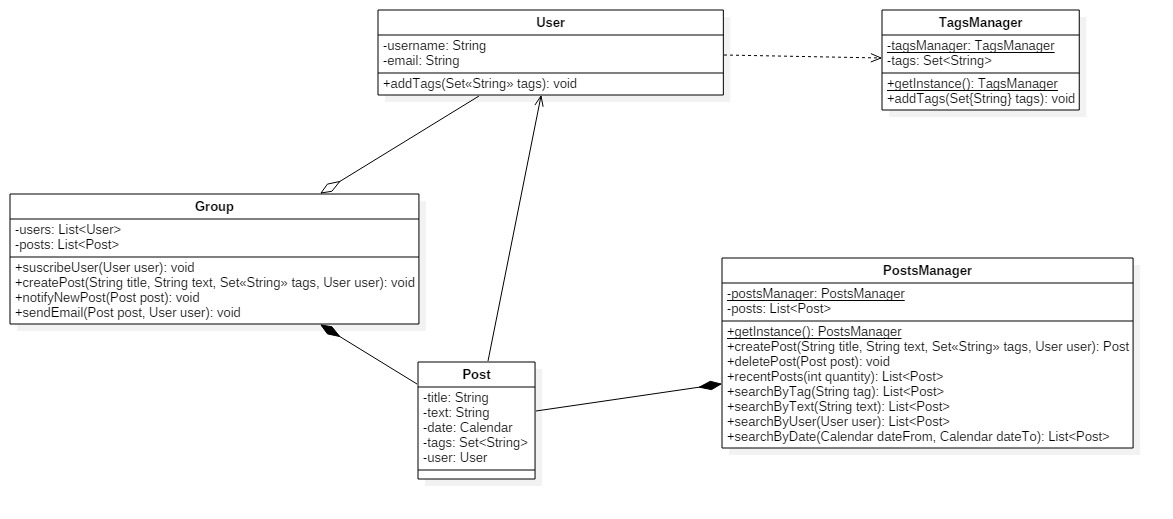
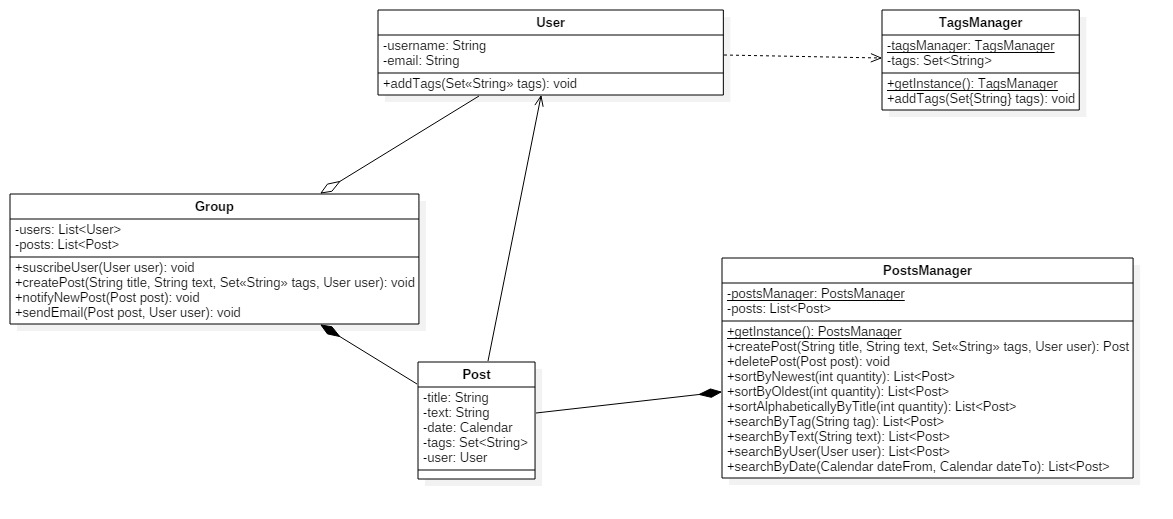
Add sort functionalities

Changed region(s): [[0.6138, 0.7091, 0.9821, 0.9249], [0.4604, 0.7399, 0.6138, 0.8015]]

diff --git a/Day 3/blog-app/src/main/java/com/bootcamp/app/PostsManager.java b/Day 3/blog-app/src/main/java/com/bootcamp/app/PostsManager.java
@@ -2,6 +2,7 @@ package com.bootcamp.app;
 
 import java.util.ArrayList;
 import java.util.Calendar;
+import java.util.Comparator;
 import java.util.List;
 import java.util.Set;
 import java.util.stream.Collectors;
@@ -21,7 +22,7 @@ public class PostsManager {
 	
 	public Post createPost(String title, String text, Set<String> tags, User user) {
 		Post post = new Post(title, text, tags, user);
-		posts.add(0, post);	
+		posts.add(post);	
 		return post;
 	}
 	
@@ -29,8 +30,43 @@ public class PostsManager {
 		posts.remove(post);
 	}
 	
-	public List<Post> recentPosts(int quantity) {
+	public List<Post> sortByNewest(int quantity) {
+		// quantity == 0 return all posts
+		posts.sort(new Comparator<Post>() {
+
+			@Override
+			public int compare(Post post1, Post post2) {
+				if (post1.getDate().before(post2.getDate())) {
+					return 1;
+				} else if (post1.getDate().after(post2.getDate())) {
+					return -1;
+				} else {
+					return 0;
+				}
+			}
+		});	
+		if (quantity == 0) {
+			return posts;
+		}
 		return posts.subList(0, quantity);
+	}
+	
+	public List<Post> sortByOldest(int quantity) {
+		// quantity == 0 return all posts
+		posts.sort((post1, post2) -> post1.getDate().compareTo(post2.getDate()));
+		if (quantity == 0) {
+			return posts;
+		}
+		return posts.subList(0, quantity);
+	}
+	
+	public List<Post> sortAlphabeticallyByTitle(int quantity) {
+		// quantity == 0 return all posts
+		posts.sort((post1, post2) -> post1.getTitle().compareTo(post2.getTitle()));
+		if (quantity == 0) {
+			return posts;
+		}
+		return posts.subList(0, quantity);	
 	}
 	
 	public List<Post> searchByTag(String tag) {

diff --git a/Day 3/blog-app/src/main/java/com/bootcamp/app/App.java b/Day 3/blog-app/src/main/java/com/bootcamp/app/App.java
@@ -49,8 +49,9 @@ public class App {
 		PostsManager.getInstance().createPost("alejosPost5", "alejosText5", null, alejo);
 		
 		PostsManager.getInstance().deletePost(matiasPost4);
-		PostsManager.getInstance().recentPosts(10).forEach(post -> System.out.println(post.getTitle()));
-		
+		PostsManager.getInstance().sortByOldest(0).forEach(post -> System.out.println(post.getTitle()));		
+		PostsManager.getInstance().sortByNewest(0).forEach(post -> System.out.println(post.getTitle()));
+		PostsManager.getInstance().sortAlphabeticallyByTitle(0).forEach(post -> System.out.println(post.getTitle()));
 		
 		
 	}
